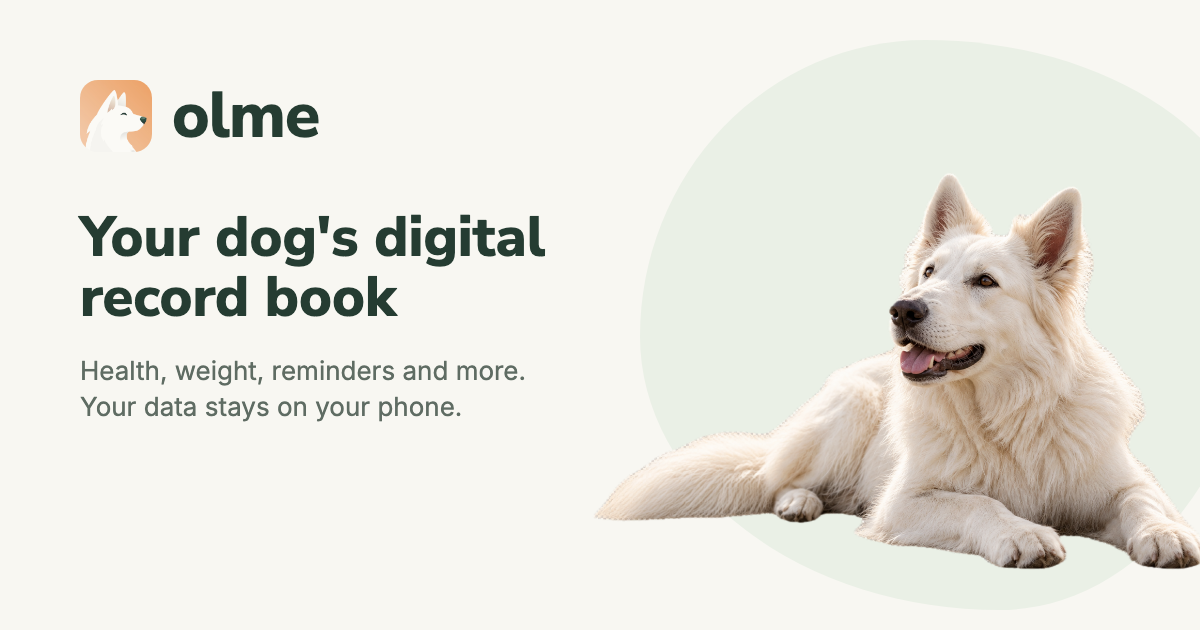
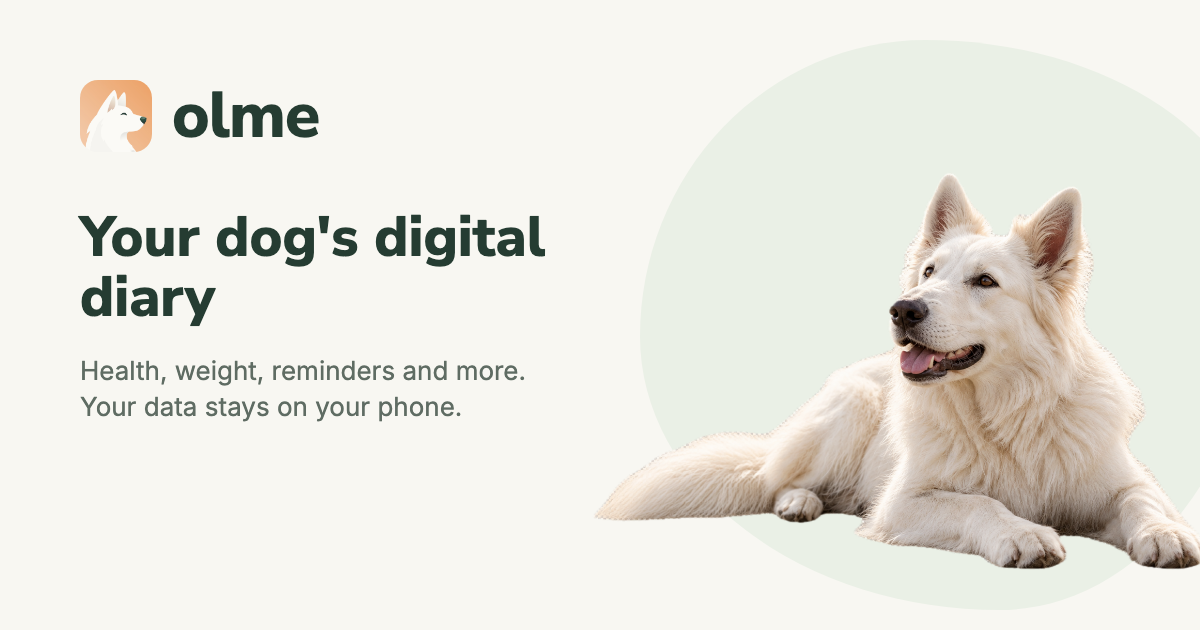
Use "diario" wording

Changed region(s): [[0.0617, 0.4222, 0.3392, 0.5127]]

diff --git a/index.html b/index.html
@@ -30,7 +30,7 @@
 <link rel="preload" href="fonts/Inter-Regular.ttf" as="font" type="font/ttf" crossorigin>
 <link rel="preload" href="fonts/NunitoSans-ExtraBold.ttf" as="font" type="font/ttf" crossorigin>
 <link rel="stylesheet" href="styles.css">
-<script type="application/ld+json">{"@context":"https://schema.org","@type":"MobileApplication","name":"Olme","operatingSystem":"iOS, Android","applicationCategory":"LifestyleApplication","description":"Libretto digitale per il tuo cane: libretto sanitario, peso, agenda con promemoria, alimentazione, comportamento, attività e allenamento. Senza account: i dati restano sul telefono.","inLanguage":"it","url":"https://ariannapopescu.github.io/olme-site/","offers":{"@type":"Offer","price":"0","priceCurrency":"EUR"}}</script>
+<script type="application/ld+json">{"@context":"https://schema.org","@type":"MobileApplication","name":"Olme","operatingSystem":"iOS, Android","applicationCategory":"LifestyleApplication","description":"Il diario digitale del tuo cane: libretto sanitario, peso, agenda con promemoria, alimentazione, comportamento, attività e allenamento. Senza account: i dati restano sul telefono.","inLanguage":"it","url":"https://ariannapopescu.github.io/olme-site/","offers":{"@type":"Offer","price":"0","priceCurrency":"EUR"}}</script>
 <script type="application/ld+json">{"@context":"https://schema.org","@type":"FAQPage","inLanguage":"it","mainEntity":[{"@type":"Question","name":"Dove finiscono i dati del mio cane?","acceptedAnswer":{"@type":"Answer","text":"Restano sul tuo telefono. Olme non ha account né server e non si collega a internet: i dati non vengono inviati a nessuno, nemmeno a chi ha creato l'app."}},{"@type":"Question","name":"Olme è gratuita?","acceptedAnswer":{"@type":"Answer","text":"Sì, Olme è gratuita e non contiene pubblicità né acquisti."}},{"@type":"Question","name":"Posso fare un backup dei dati?","acceptedAnswer":{"@type":"Answer","text":"Sì. Con «Esporta backup» crei un file con tutti i dati, le foto e i documenti, da salvare dove preferisci. Il file non è protetto da password: conservalo in un posto di cui ti fidi."}},{"@type":"Question","name":"Olme sostituisce il veterinario o il libretto ufficiale?","acceptedAnswer":{"@type":"Answer","text":"No. Olme non dà consigli veterinari e non sostituisce il passaporto, i certificati o l'iscrizione del cane all'anagrafe canina."}},{"@type":"Question","name":"Su quali telefoni funziona?","acceptedAnswer":{"@type":"Answer","text":"Olme arriverà presto su iOS e Android."}},{"@type":"Question","name":"Come posso contattarvi?","acceptedAnswer":{"@type":"Answer","text":"Scrivi a olmepet@gmail.com: rispondiamo appena possibile."}}]}</script>
 </head>
 <body>

diff --git a/en/index.html b/en/index.html
@@ -30,7 +30,7 @@
 <link rel="preload" href="../fonts/Inter-Regular.ttf" as="font" type="font/ttf" crossorigin>
 <link rel="preload" href="../fonts/NunitoSans-ExtraBold.ttf" as="font" type="font/ttf" crossorigin>
 <link rel="stylesheet" href="../styles.css">
-<script type="application/ld+json">{"@context":"https://schema.org","@type":"MobileApplication","name":"Olme","operatingSystem":"iOS, Android","applicationCategory":"LifestyleApplication","description":"Digital record book for your dog: health record, weight, agenda with reminders, food, behaviour, activity and training. No account: your data stays on the phone.","inLanguage":"en","url":"https://ariannapopescu.github.io/olme-site/en/","offers":{"@type":"Offer","price":"0","priceCurrency":"EUR"}}</script>
+<script type="application/ld+json">{"@context":"https://schema.org","@type":"MobileApplication","name":"Olme","operatingSystem":"iOS, Android","applicationCategory":"LifestyleApplication","description":"Your dog's digital diary: health record, weight, agenda with reminders, food, behaviour, activity and training. No account: your data stays on the phone.","inLanguage":"en","url":"https://ariannapopescu.github.io/olme-site/en/","offers":{"@type":"Offer","price":"0","priceCurrency":"EUR"}}</script>
 <script type="application/ld+json">{"@context":"https://schema.org","@type":"FAQPage","inLanguage":"en","mainEntity":[{"@type":"Question","name":"Where does my dog's data go?","acceptedAnswer":{"@type":"Answer","text":"It stays on your phone. Olme has no accounts or servers and does not connect to the internet: your data is not sent to anyone, not even to the people who made the app."}},{"@type":"Question","name":"Is Olme free?","acceptedAnswer":{"@type":"Answer","text":"Yes, Olme is free, with no advertising and no purchases."}},{"@type":"Question","name":"Can I back up my data?","acceptedAnswer":{"@type":"Answer","text":"Yes. With “Export backup” you create a file with all the data, photos and documents, to save wherever you like. The file is not password-protected: keep it somewhere you trust."}},{"@type":"Question","name":"Does Olme replace the vet or the official record?","acceptedAnswer":{"@type":"Answer","text":"No. Olme gives no veterinary advice and does not replace the passport, certificates or your dog's registration in the dog registry."}},{"@type":"Question","name":"Which phones does it work on?","acceptedAnswer":{"@type":"Answer","text":"Olme is coming soon to iOS and Android."}},{"@type":"Question","name":"How can I contact you?","acceptedAnswer":{"@type":"Answer","text":"Write to olmepet@gmail.com: we will reply as soon as we can."}}]}</script>
 </head>
 <body>
